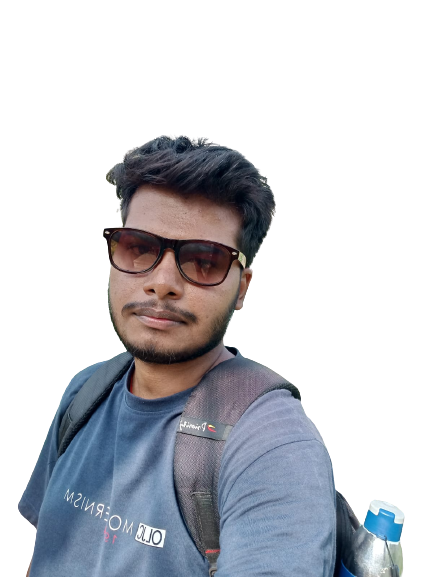
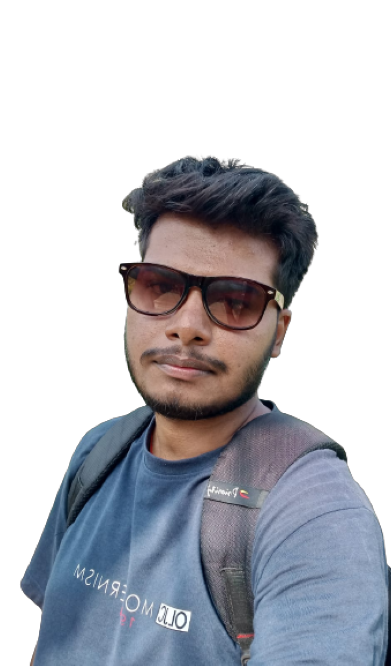
Today's Work

diff --git a/styles/style.scss b/styles/style.scss
@@ -158,12 +158,12 @@ section{
             left: 0;
             top: 0;
             z-index: -1;
-            clip-path: polygon(0 0,46% 0,79% 100%,0 100%);
+            
         }
         .image{
             border-radius: var(--br-sm-2);
             height: 98%;
-            width: 68%;
+            width: 87%;
             margin-left: 4rem;
             background-color: var(--color-black);
             transition: all .4s ease-in-out;
@@ -172,11 +172,92 @@ section{
               height: 100%;
               object-fit: cover;
               transition: all .4s ease-in-out;
-              filter: grayscale(100%);
-              &:hover{
-                filter: grayscale(0%);
-              }
+              
             }
+        }
+    }
+
+    .right-header{
+        display: flex;
+        flex-direction: column;
+        justify-content: center;
+        padding-right: 18rem;
+        .name{
+            font-size: 3rem;
+            span{
+                color: var(--color-secondary);
+            }
+        }
+        p{
+            margin: 1.5rem 0;
+            line-height: 2rem;
+        }
+    }
+}
+
+.btn-con{
+    display: flex;
+    align-self: flex-start;
+}
+.main-btn{
+    border-radius: 30px;
+    color: inherit;
+    font-weight: 600;
+    position: relative;
+    border: 1px solid var(--color-secondary);
+    display: flex;
+    align-self: flex-start;
+    display: flex;
+    align-items: center;
+    overflow: hidden;
+    .btn-text{
+        padding: 0 2rem;
+    }
+    .btn-icon{
+        background-color: var(--color-secondary);
+        display: flex;
+        align-items: center;
+        justify-content: center;
+        border-radius: 50%;
+        padding: 1rem;
+    }
+    &::before{
+        content: '';
+        position: absolute;
+        top: 0;
+        right: 0;
+        transform: translateX(100%);
+        transition: all .4s ease-out;
+        z-index: -1;
+    }
+    &:hover{
+        width: 100%;
+        height: 100%;
+        background-color: var(--color-secondary);
+        transform: translateX(0);
+    }
+}
+
+.main-title{
+    text-align: center;
+    h2{
+        position: relative;
+        text-transform: uppercase;
+        font-size: 4rem;
+        font-weight: 700;
+        span{
+            color: var(--color-secondary);
+        }
+        .bg-text{
+            position: absolute;
+            top: 50%;
+            left: 50%;
+            color: var(--color-grey5);
+            transition: all .4s ease-in-out;
+            z-index: -1;
+            transform: translate(-50%,-50%);
+            font-weight: 800;
+            font-size: 6.3rem;
         }
     }
 }

diff --git a/index.html b/index.html
@@ -32,16 +32,42 @@
                       when an unknown printer took a galley of type and scrambled it to make
                        a type specimen book.
                  </p>
-                 <a href="" class="main-btn">
-                    <span class="main-btn">Download Resume</span>
-                    <span class="btn-icon"><i class="fa-solid fa-download"></i></i></span>
-                 </a>
+                 <div class="btn-con">
+                    <a href="#" class="main-btn">
+                        <span class="btn-text">Download Resume</span>
+                        <span class="btn-icon"><i class="fa-solid fa-download"></i></i></span>
+                     </a>
+                 </div>
               </div>
         </div>
 
     </header>
         <main>
-            <section class="section sec2 about" id="about"></section>
+            <section class="section sec2 about" id="about">
+            <div class="main-title">
+                 <h2>About <span>me</span><span class="bg-text">my stats</span></h2>
+            </div>
+            <div class="about-container">
+                <div class="left-about">
+                    <h4>Information</h4>
+                    <p>
+                        Lorem Ipsum is simply dummy text of the printing and typesetting industry.
+                        Lorem Ipsum has been the industry's standard dummy text ever since the 1500s,
+                        when an unknown printer took a galley of type and scrambled it to make a
+                        type specimen book. It has survived not only five centuries, but also the
+                        leap into electronic typesetting, remaining essentially unchanged.
+                            
+                    </p>
+                    <div class="btn-con">
+                        <a href="#" class="main-btn">
+                            <span class="btn-text">Download Resume</span>
+                            <span class="btn-icon"><i class="fa-solid fa-download"></i></i></span>
+                         </a>
+                     </div>                    
+                </div>
+                <div class="right-about"></div>
+            </div>
+            </section>
             <section class="section sec3 portfolio" id="portfolio"></section>
             <section class="section sec4 blogs" id="blogs"></section>
             <section class="section sec5 contact" id="contact"></section>

diff --git a/styles/style.css b/styles/style.css
@@ -160,13 +160,11 @@ section {
   left: 0;
   top: 0;
   z-index: -1;
-  -webkit-clip-path: polygon(0 0, 46% 0, 79% 100%, 0 100%);
-          clip-path: polygon(0 0, 46% 0, 79% 100%, 0 100%);
 }
 .header-content .left-header .image {
   border-radius: var(--br-sm-2);
   height: 98%;
-  width: 68%;
+  width: 87%;
   margin-left: 4rem;
   background-color: var(--color-black);
   transition: all 0.4s ease-in-out;
@@ -177,8 +175,88 @@ section {
   -o-object-fit: cover;
      object-fit: cover;
   transition: all 0.4s ease-in-out;
-  filter: grayscale(100%);
 }
-.header-content .left-header .image img:hover {
-  filter: grayscale(0%);
+.header-content .right-header {
+  display: flex;
+  flex-direction: column;
+  justify-content: center;
+  padding-right: 18rem;
+}
+.header-content .right-header .name {
+  font-size: 3rem;
+}
+.header-content .right-header .name span {
+  color: var(--color-secondary);
+}
+.header-content .right-header p {
+  margin: 1.5rem 0;
+  line-height: 2rem;
+}
+
+.btn-con {
+  display: flex;
+  align-self: flex-start;
+}
+
+.main-btn {
+  border-radius: 30px;
+  color: inherit;
+  font-weight: 600;
+  position: relative;
+  border: 1px solid var(--color-secondary);
+  display: flex;
+  align-self: flex-start;
+  display: flex;
+  align-items: center;
+  overflow: hidden;
+}
+.main-btn .btn-text {
+  padding: 0 2rem;
+}
+.main-btn .btn-icon {
+  background-color: var(--color-secondary);
+  display: flex;
+  align-items: center;
+  justify-content: center;
+  border-radius: 50%;
+  padding: 1rem;
+}
+.main-btn::before {
+  content: "";
+  position: absolute;
+  top: 0;
+  right: 0;
+  transform: translateX(100%);
+  transition: all 0.4s ease-out;
+  z-index: -1;
+}
+.main-btn:hover {
+  width: 100%;
+  height: 100%;
+  background-color: var(--color-secondary);
+  transform: translateX(0);
+}
+
+.main-title {
+  text-align: center;
+}
+.main-title h2 {
+  position: relative;
+  text-transform: uppercase;
+  font-size: 4rem;
+  font-weight: 700;
+}
+.main-title h2 span {
+  color: var(--color-secondary);
+}
+.main-title h2 .bg-text {
+  position: absolute;
+  top: 50%;
+  left: 50%;
+  color: var(--color-grey5);
+  transition: all 0.4s ease-in-out;
+  z-index: -1;
+  transform: translate(-50%, -50%);
+  font-weight: 800;
+  font-size: 6.3rem;
 }/*# sourceMappingURL=style.css.map */
